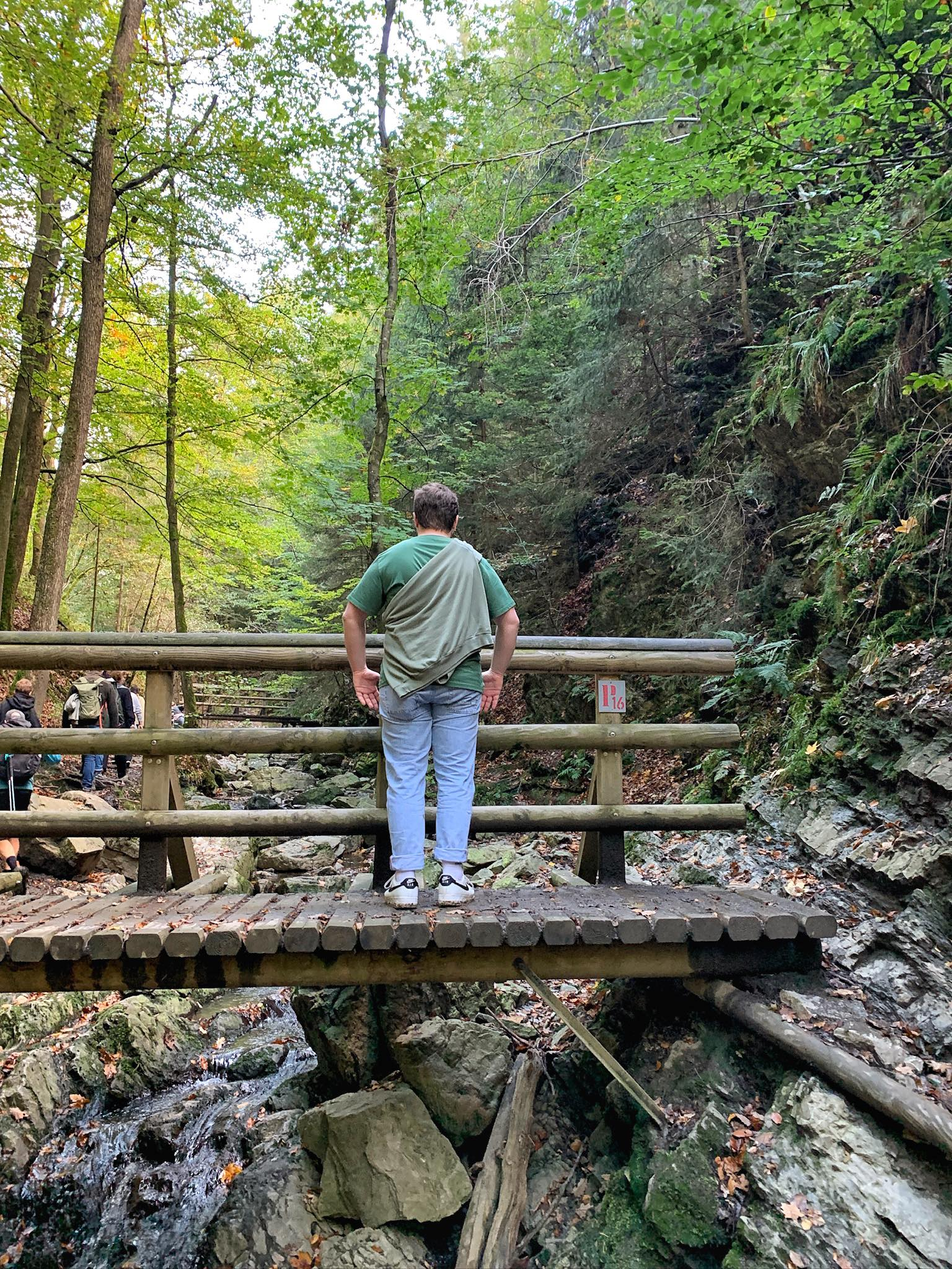
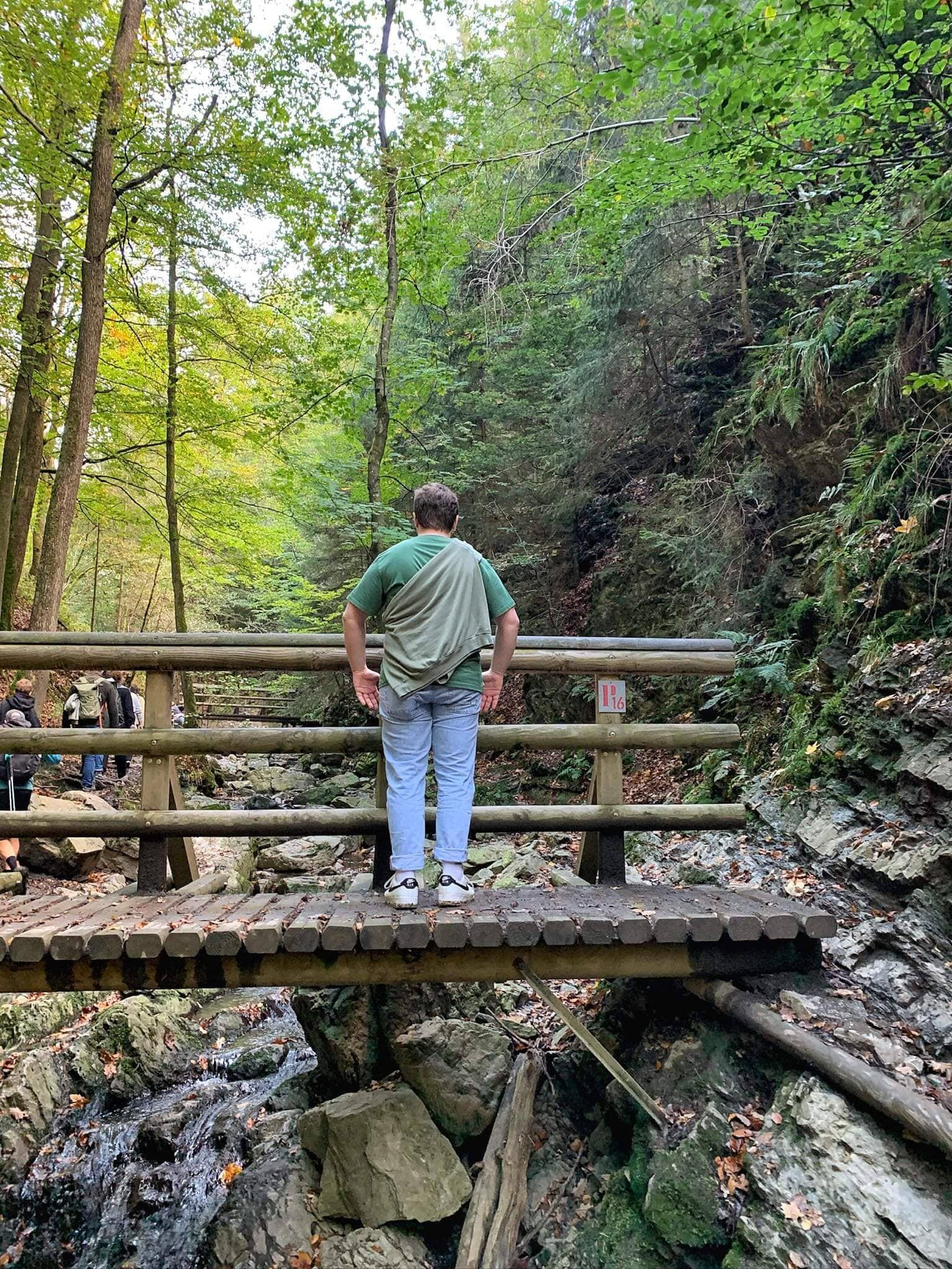
Spelling nagekeken, foto's compressed, opmaak, contactpagina aangepast

diff --git a/root/contact.html b/root/contact.html
@@ -9,6 +9,7 @@
   <link rel="stylesheet" href="../css/contact.css">
   <link href="https://cdn.jsdelivr.net/npm/bootstrap@5.3.2/dist/css/bootstrap.min.css" rel="stylesheet" integrity="sha384-T3c6CoIi6uLrA9TneNEoa7RxnatzjcDSCmG1MXxSR1GAsXEV/Dwwykc2MPK8M2HN" crossorigin="anonymous">
   <link href="https://cdnjs.cloudflare.com/ajax/libs/font-awesome/6.0.0/css/all.min.css" rel="stylesheet">
+  <link rel="stylesheet" href="https://cdnjs.cloudflare.com/ajax/libs/font-awesome/4.7.0/css/font-awesome.min.css">
 </head>
 
 <body>
@@ -21,7 +22,7 @@
     <div class="collapse navbar-collapse" id="main-navigation">
       <ul class="navbar-nav mx-auto">
         <li class="nav-item">
-          <a class="nav-link custom-link" href="index.html">Startpagina</a> 
+          <a class="nav-link custom-link" href="index.html">Index - Startpagina</a> 
         </li>
         <li class="nav-item">
           <a class="nav-link custom-link" href="cv.html">CV</a>
@@ -63,6 +64,13 @@
               <div class="card-body">
                 <p class="card-text"><strong>Stuur me manueel een mailtje!</strong> <a href="mailto:r0988819@student.thomasmore.be">r0988819@student.thomasmore.be</a></p>
               </div>
+              <div class="card-body">
+                <p class="card-text"><strong>Social Media: </strong>
+                  <a href="http://facebook.com/ThomasMoreBE" target="_blank" ><i class="fa fa-facebook"></i></a>
+                  <a href="http://twitter.com/ThomasMoreBE" target="_blank"><i class="fa fa-twitter"></i></a>
+                  <a href="http://instagram.com/thomasmore.be" target="_blank"><i class="fa fa-instagram"></i></a>
+                </p>
+              </div>
             </div>
           </div>
         </div>
@@ -70,7 +78,7 @@
       <form class="col-md">
         <div class="container">
           <h2 class="text-center">
-            <p class="pb-1 underlined">Stuur me geautomatiseerd een mailtje!</p>
+            <p class="pb-1 underlined">Stuur me (geautomatiseerd) een mailtje!</p>
           </h2>
         </div>
         <div class="row">
@@ -84,15 +92,15 @@
           </div>
       </div>
         <div class="mb-3">
-          <label for="exampleFormControlInput1" class="form-label">Email address</label>
+          <label for="exampleFormControlInput1" class="form-label">E-mail adres</label>
           <input type="email" class="form-control" id="exampleFormControlInput1" placeholder="name@example.com" required>
         </div>
         <div class="mb-3">
           <div class="form-floating">
             <select class="form-select" id="floatingSelect" aria-label="Floating label select example">
               <option value="1">C#</option>
-              <option value="2">Html</option>
-              <option value="3">Css</option>
+              <option value="2">HTML</option>
+              <option value="3">CSS</option>
               <option value="4">SQL</option>
               <option value="5">Basic Accounting</option>
               <option value="5">Research</option>
@@ -104,7 +112,7 @@
         <div class="mb-3">
           <div class="form-floating">
             <textarea class="form-control" placeholder="Leave a comment here" id="floatingTextarea2" style="height: 100px"></textarea>
-            <label for="floatingTextarea2">Extra info</label>
+            <label for="floatingTextarea2">Typ uw vraag hier!</label>
           </div>
         </div>
         <button type="submit" class="btn btn-primary">Versturen  <i class="bi bi-send-fill"></i></button>

diff --git a/root/hobbysinteresses.html b/root/hobbysinteresses.html
@@ -46,7 +46,7 @@
           <p class="pb-1 underlined">Hobby's en interesses</p>
         </h2>
         <p>
-          Hier kan je enkele hobby's van me zien, door de carousel te gebruiken kan je ze allemaal zien!
+          Hier kan je hobby's van me zien, door de carousel te gebruiken kan je ze allemaal zien!
         </p>
       </div>
         
@@ -104,7 +104,7 @@
             </div>
             <div class="carousel-item">
               <div class="card mb-3">
-                <img src="../images/vriendenhobby.jpg" class="card-img-top3" alt="foto Senne met vrienden">
+                <img src="../images/vriendjes.png" class="card-img-top3" alt="foto Senne met vrienden">
                 <div class="card-body">
                   <h5 class="card-title">Vrienden & familie</h5>
                   <p class="card-text">Als persoon vind ik vrienden en familie super belangrijk. Dit is m’n #1 prioriteit. Op restaurant gaan, op stap, vakanties, … noem maar op – zolang het met familie of vrienden is ben ik aanwezig. Door mijn eerder introverte spreek ik zelf niet snel nieuwe potentiële vrienden aan, maar als ze zelf initiatief nemen bloei ik meteen open. Het is een grote stressfactor die verdwijnt zodra dit gebeurt. Mensen helpen in het algemeen vind ik ook zeer belangrijk. Als ik iemand kan helpen door langer wakker te blijven, mee te studeren, uit te leggen, … doe ik dit met plezier. Als er bijvoorbeeld een conflict is tussen twee personen, neem ik graag de tijd om beide standpunten van de partijen 100% te begrijpen zodat ik als mediator kan fungeren.</p>

diff --git a/root/index.html b/root/index.html
@@ -58,7 +58,7 @@
       <div class="col">
         <div class="card h-100">
           <a href="cv.html">
-            <img src="https://i.imgur.com/y1zluwG.jpeg" alt="Foto persoon met aktetas" class="card-img-top" />
+            <img src="../images/werkfotoervaring.jpg" alt="Foto persoon met aktetas" class="card-img-top" />
           </a>
           <div class="card-body">
             <h5 class="card-title">CV</h5>
@@ -72,7 +72,7 @@
       <div class="col">
         <div class="card h-100">
           <a href="hobbysinteresses.html">
-            <img src="https://i.imgur.com/aRW0MbR.jpeg" alt="Foto Senne met vrienden" class="card-img-top" />
+            <img src="../images/vriendjes.png" alt="Foto Senne met vrienden" class="card-img-top" />
           </a>
           <div class="card-body">
             <h5 class="card-title">Hobby's & Interesses</h5>
@@ -86,7 +86,7 @@
       <div class="col">
         <div class="card h-100">
           <a href="contact.html">
-            <img src="https://i.imgur.com/cghDXJ6.jpeg" alt="Telefoon met social media" class="card-img-top" />
+            <img src="../images/contact.jpg" alt="Telefoon met social media" class="card-img-top" />
           </a>
           <div class="card-body">
             <h5 class="card-title">Contact</h5>

diff --git a/root/ervaring.html b/root/ervaring.html
@@ -91,7 +91,7 @@
         <div id="carousel2" class="carousel slide" data-bs-ride="carousel">
           <div class="carousel-inner">
             <div class="carousel-item active">
-              <img src="../images/warenhuis.jpeg" class="d-block w-100" alt="Warenhuis">
+              <img src="../images/warenhuis.jpg" class="d-block w-100" alt="Warenhuis">
               <div class="carousel-text">
                 <h5>Grote Teams - Bleckmann</h5>
                 <p>Bij Bleckmann heb ik tijdens zomervakanties enkele weken gewerkt. Het was een job die zeer gemakkelijk te leren was. Er waren verschillende taken te doen, zoals orderpicking, packing, relocating, ...</p>

diff --git a/root/cv.html b/root/cv.html
@@ -49,7 +49,6 @@
   </div>
 
   <div class="container p-3">
-    <div class="row">
       <div class="col-md">
         <h3 class="text-center">
           <p class="pb-1">Wie ben ik?</p>
